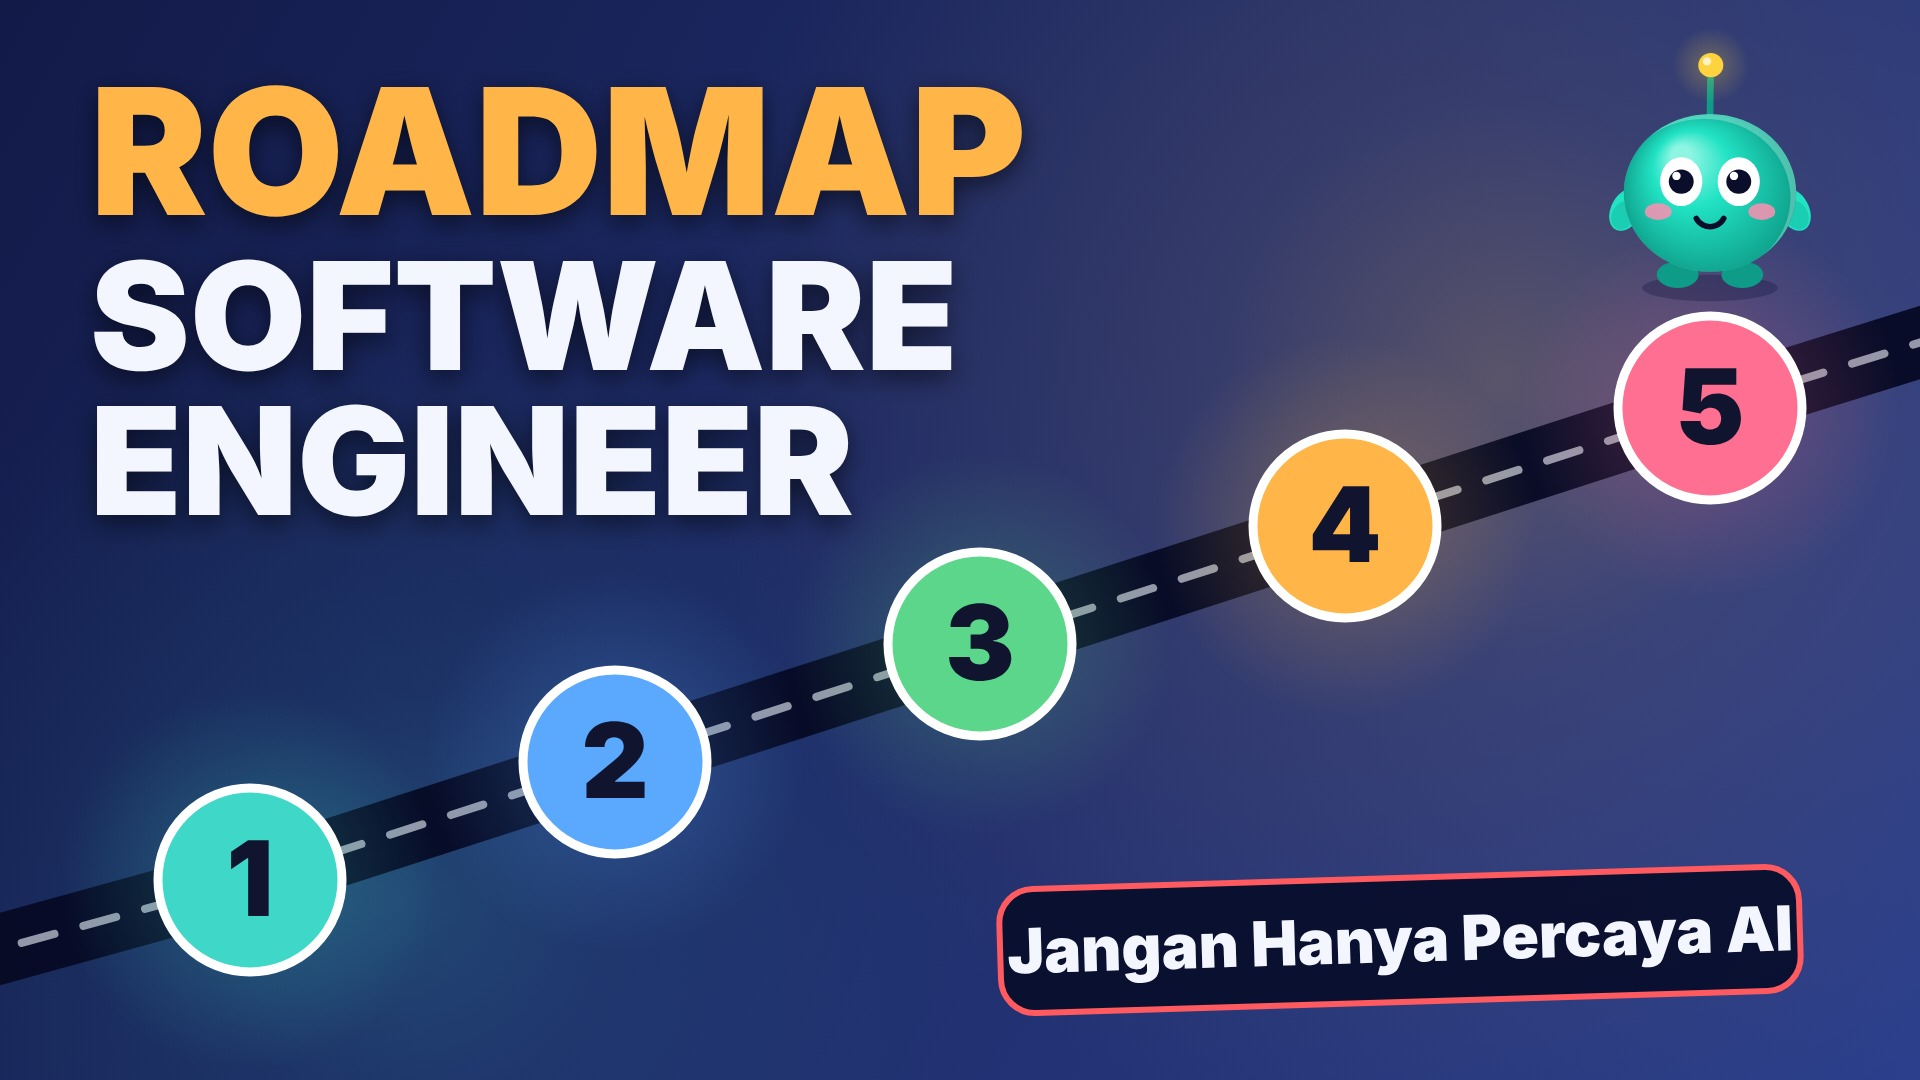
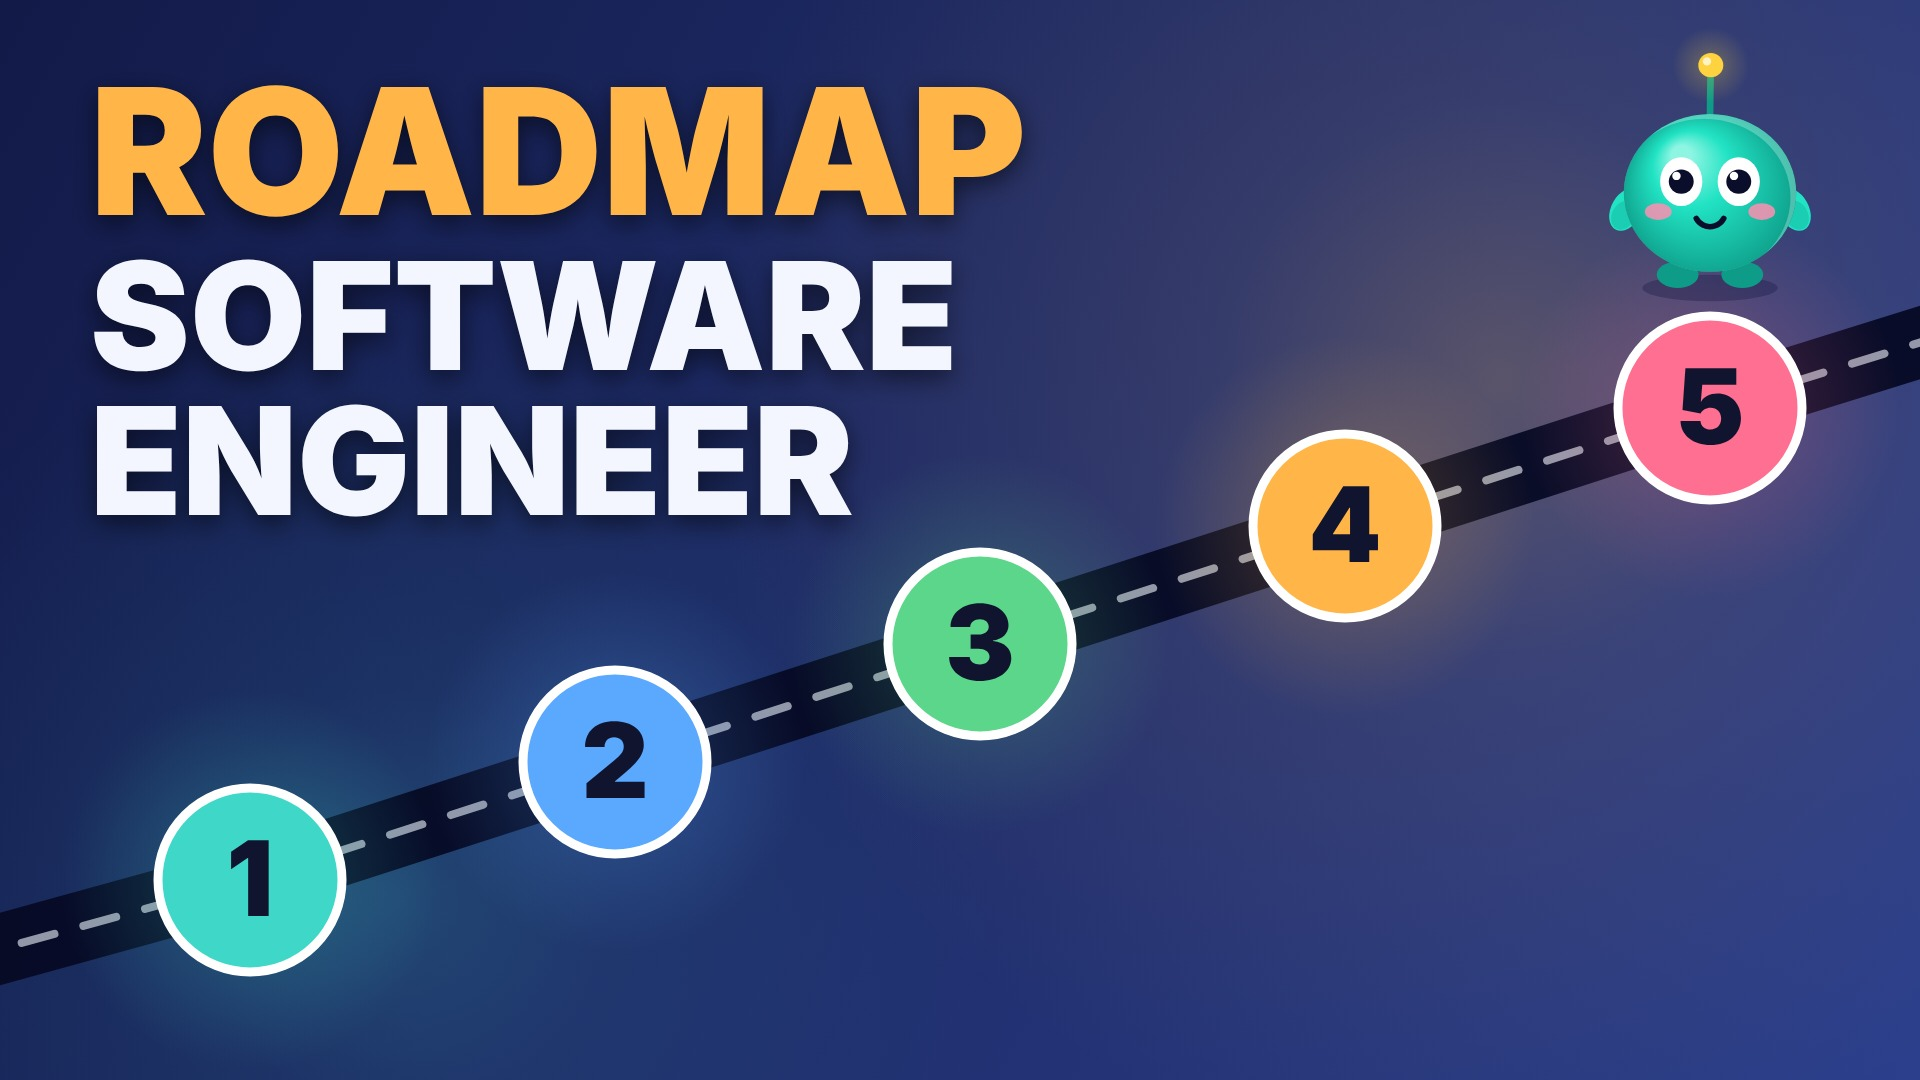
R01: thumbnail tanpa tagline
Claude-Session: https://claude.ai/code/session_012oyg5FhUbCaVqX5xy1VoQ7

Changed region(s): [[0.5, 0.7944, 0.9375, 0.9472]]

diff --git a/episodes/dok/R01/thumbnail.js b/episodes/dok/R01/thumbnail.js
@@ -1,4 +1,4 @@
-// Thumbnail R01: judul besar kiri atas, peta lima stasiun menanjak ke kanan, tiga tokoh kecil di awal jalan, label "Jangan Hanya Percaya AI".
+// Thumbnail R01: judul besar kiri atas, peta lima stasiun menanjak ke kanan, tiga tokoh kecil di awal jalan.
 const K = Kiko, U = K.d06, R = K.r01, KB = K.kit.bipkit, P = D.P, t = 2.0, TAU = Math.PI * 2;
 const g = ctx.createLinearGradient(0, 0, 1920, 1080); g.addColorStop(0, "#121A48"); g.addColorStop(1, "#2B3F8C"); ctx.fillStyle = g; ctx.fillRect(0, 0, 1920, 1080);
 D.glow(ctx, 1500, 380, 800, P.amber, 0.28); D.glow(ctx, 400, 900, 600, P.teal, 0.2);
@@ -7,5 +7,4 @@ ctx.lineCap = "round"; ctx.lineJoin = "round"; ctx.strokeStyle = "rgba(6,10,36,0
 ctx.strokeStyle = "rgba(242,246,255,0.6)"; ctx.lineWidth = 8; ctx.setLineDash([34, 30]); ctx.beginPath(); ctx.moveTo(-40, 960); for (let i = 0; i < 5; i++) ctx.lineTo(X(i), Y(i)); ctx.lineTo(1960, 330); ctx.stroke(); ctx.setLineDash([]);
 for (let i = 0; i < 5; i++) { D.glow(ctx, X(i), Y(i), 190, NC[i], 0.5); ctx.fillStyle = NC[i]; ctx.beginPath(); ctx.arc(X(i), Y(i), 92, 0, TAU); ctx.fill(); ctx.strokeStyle = "#FFFFFF"; ctx.lineWidth = 9; ctx.stroke(); D.txt(ctx, String(i + 1), X(i), Y(i) + 36, 104, { align: "center", weight: 900, color: "#10142E" }); }
 [["ROADMAP", "#FFB547", 176, 215], ["SOFTWARE", "#F4F6FF", 150, 370], ["ENGINEER", "#F4F6FF", 150, 515]].forEach(([s, col, sz, y]) => { ctx.save(); ctx.shadowColor = "rgba(0,0,0,0.55)"; ctx.shadowBlur = 26; ctx.shadowOffsetY = 8; D.txt(ctx, s, 90, y, sz, { weight: 900, color: col }); ctx.restore(); });
-ctx.save(); ctx.translate(1400, 940); ctx.rotate(-0.03); ctx.fillStyle = "rgba(8,14,44,0.94)"; H.rr(ctx, -400, -62, 800, 124, 34); ctx.fill(); ctx.strokeStyle = P.red; ctx.lineWidth = 6; ctx.stroke(); D.txt(ctx, "Jangan Hanya Percaya AI", 0, 22, 62, { align: "center", weight: 900, color: "#F4F6FF" }); ctx.restore();
 KB.draw(ctx, X(4), Y(4) - 215, 190, { pose: "diam", t, mood: "happy" });

diff --git a/episodes/dok/R01/youtube.md b/episodes/dok/R01/youtube.md
@@ -3,7 +3,7 @@
 ## Pengaturan unggah (wajib)
 - Penonton: **Tidak, video ini tidak dibuat untuk anak-anak** (penonton umum/keluarga).
 - Konten diubah atau sintetis: **Ya** (narasi dibuat dengan AI).
-- Thumbnail: `thumbnail.jpg` (peta lima stasiun, tagline "Jangan Hanya Percaya AI").
+- Thumbnail: `thumbnail.jpg` (peta lima stasiun).
 - Layar akhir: 20 detik terakhir (mulai sekitar 29:49; tempatnya sudah disiapkan di layar sejak 29:34); pasang video "SiAntre: Sistem Antrean dari Nol" + tombol subscribe.
 - Kartu: seri Git dan Kerja Tim di sekitar 11:46; repository SiAntre di 21:09; video Vibe Coding dan dokumenter masa depan software engineer di 24:52.
 - Playlist: "Mulai dari Sini" (video ini sebagai video pertama), lalu SiAntre.
